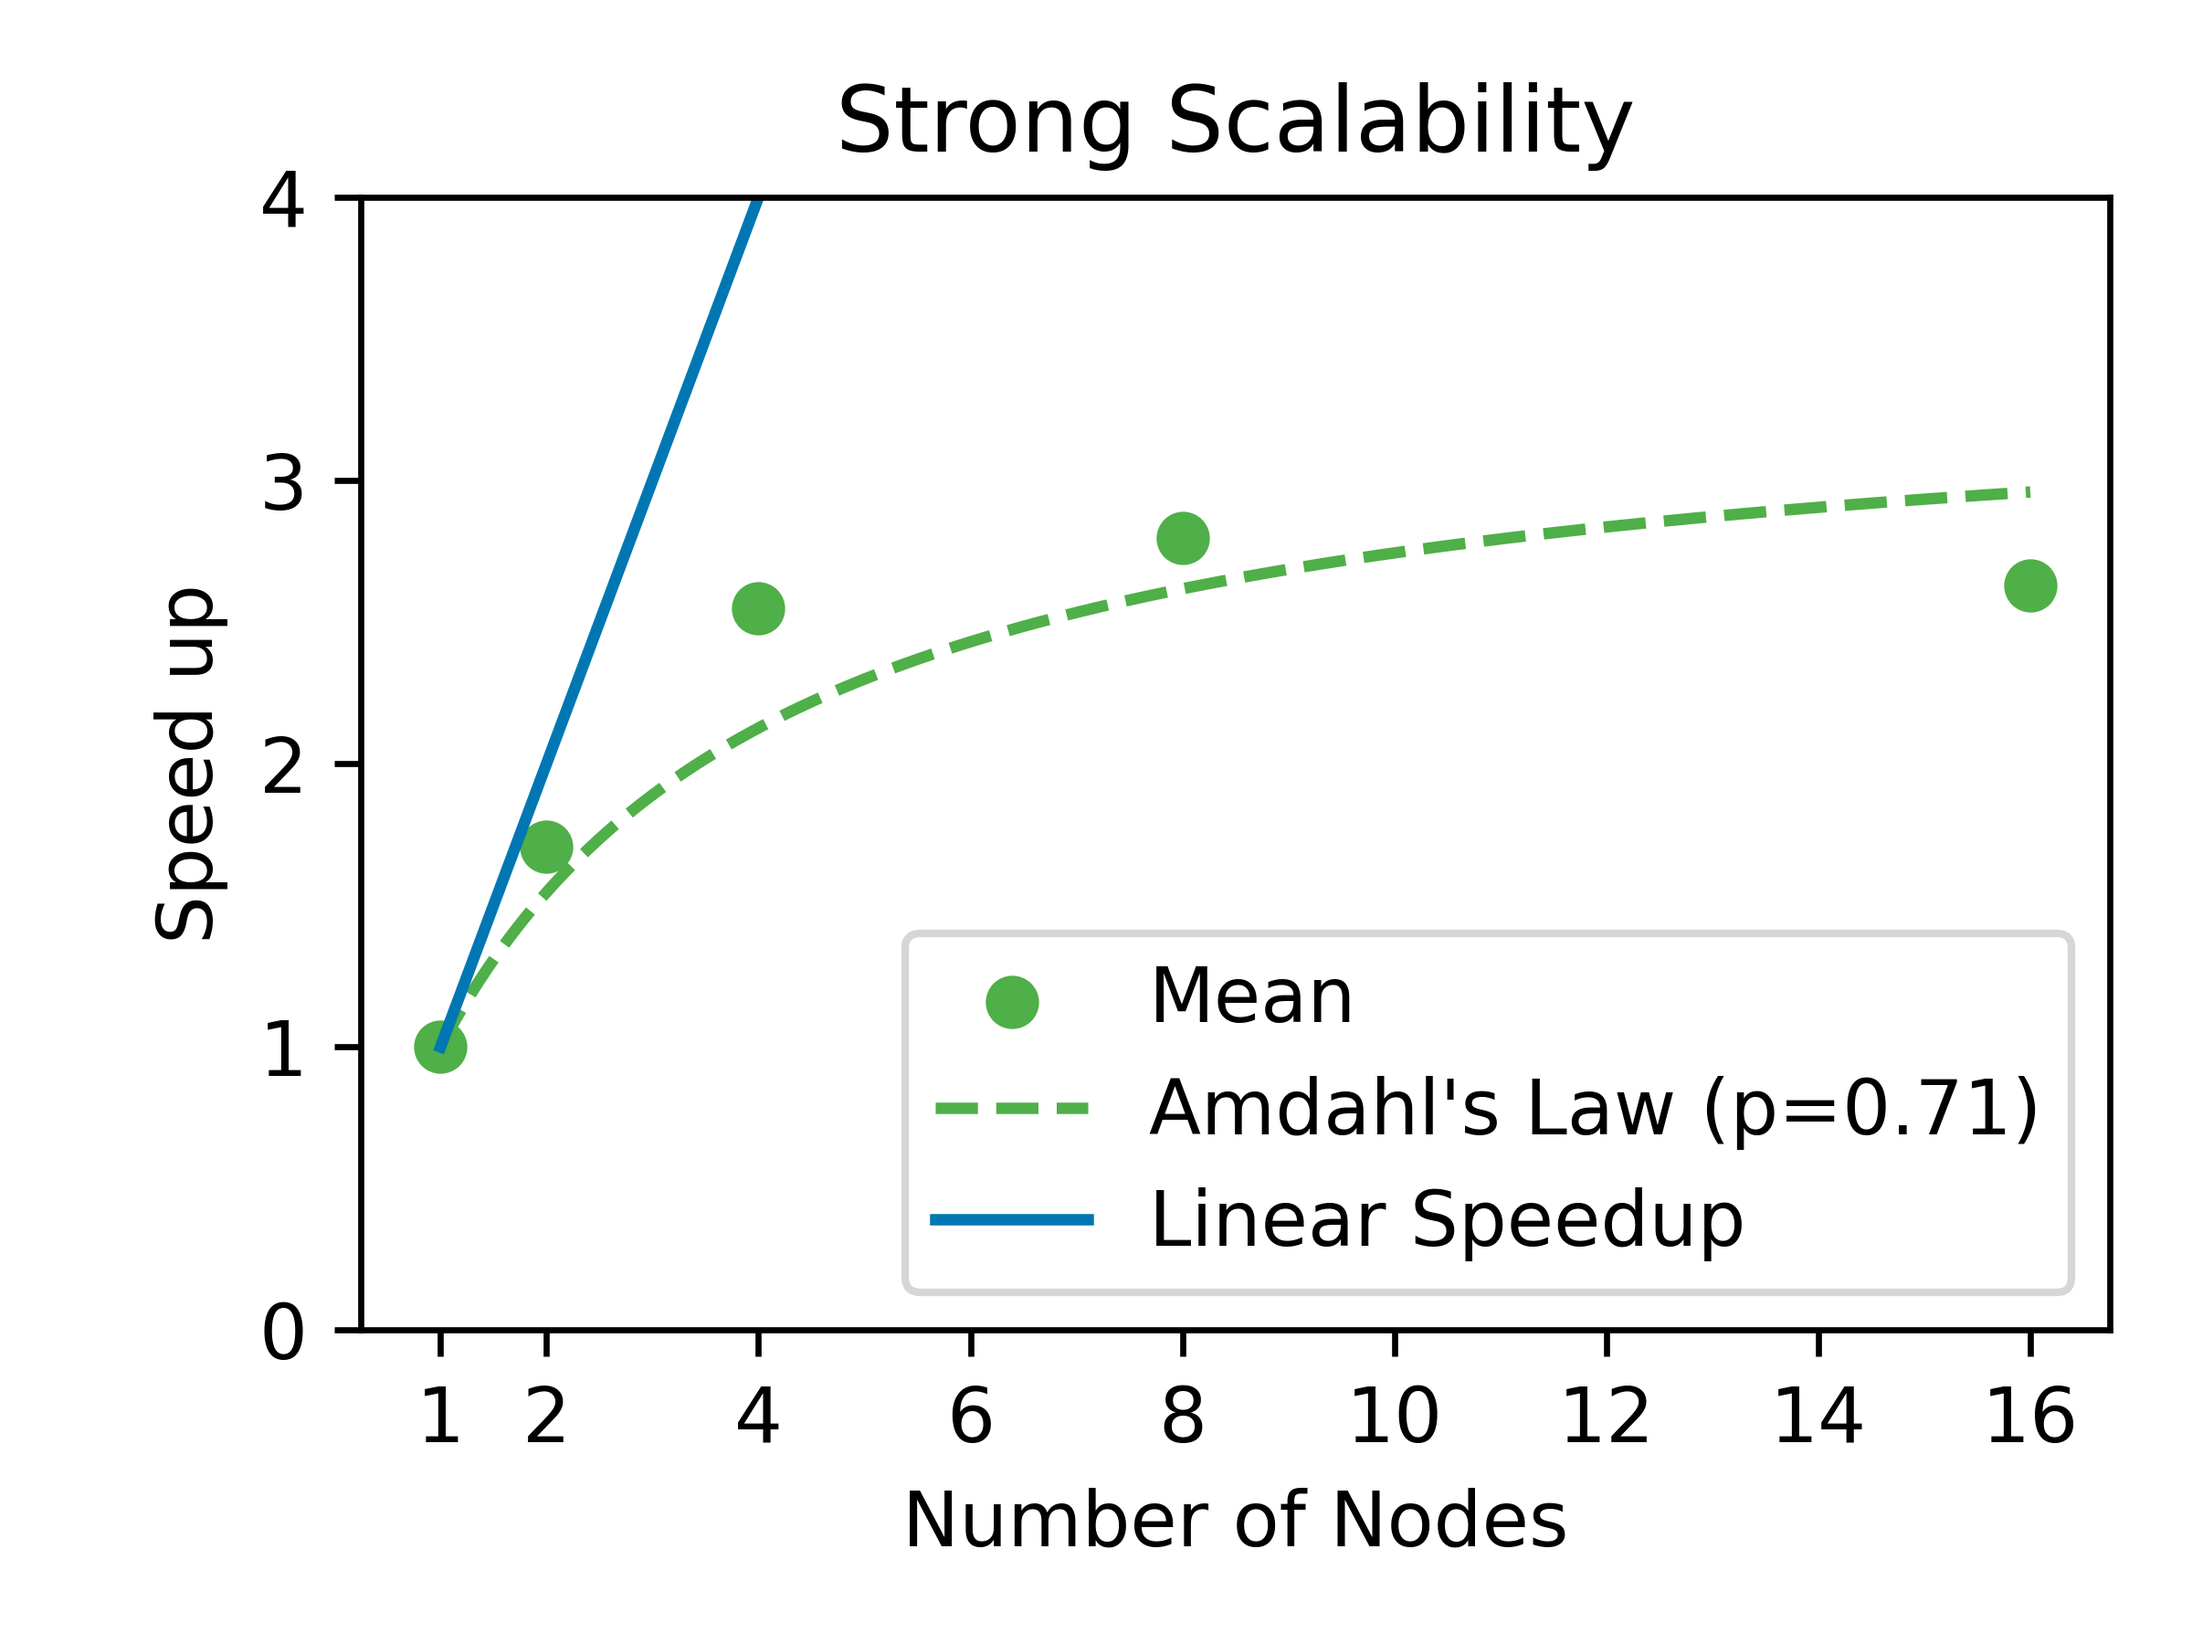
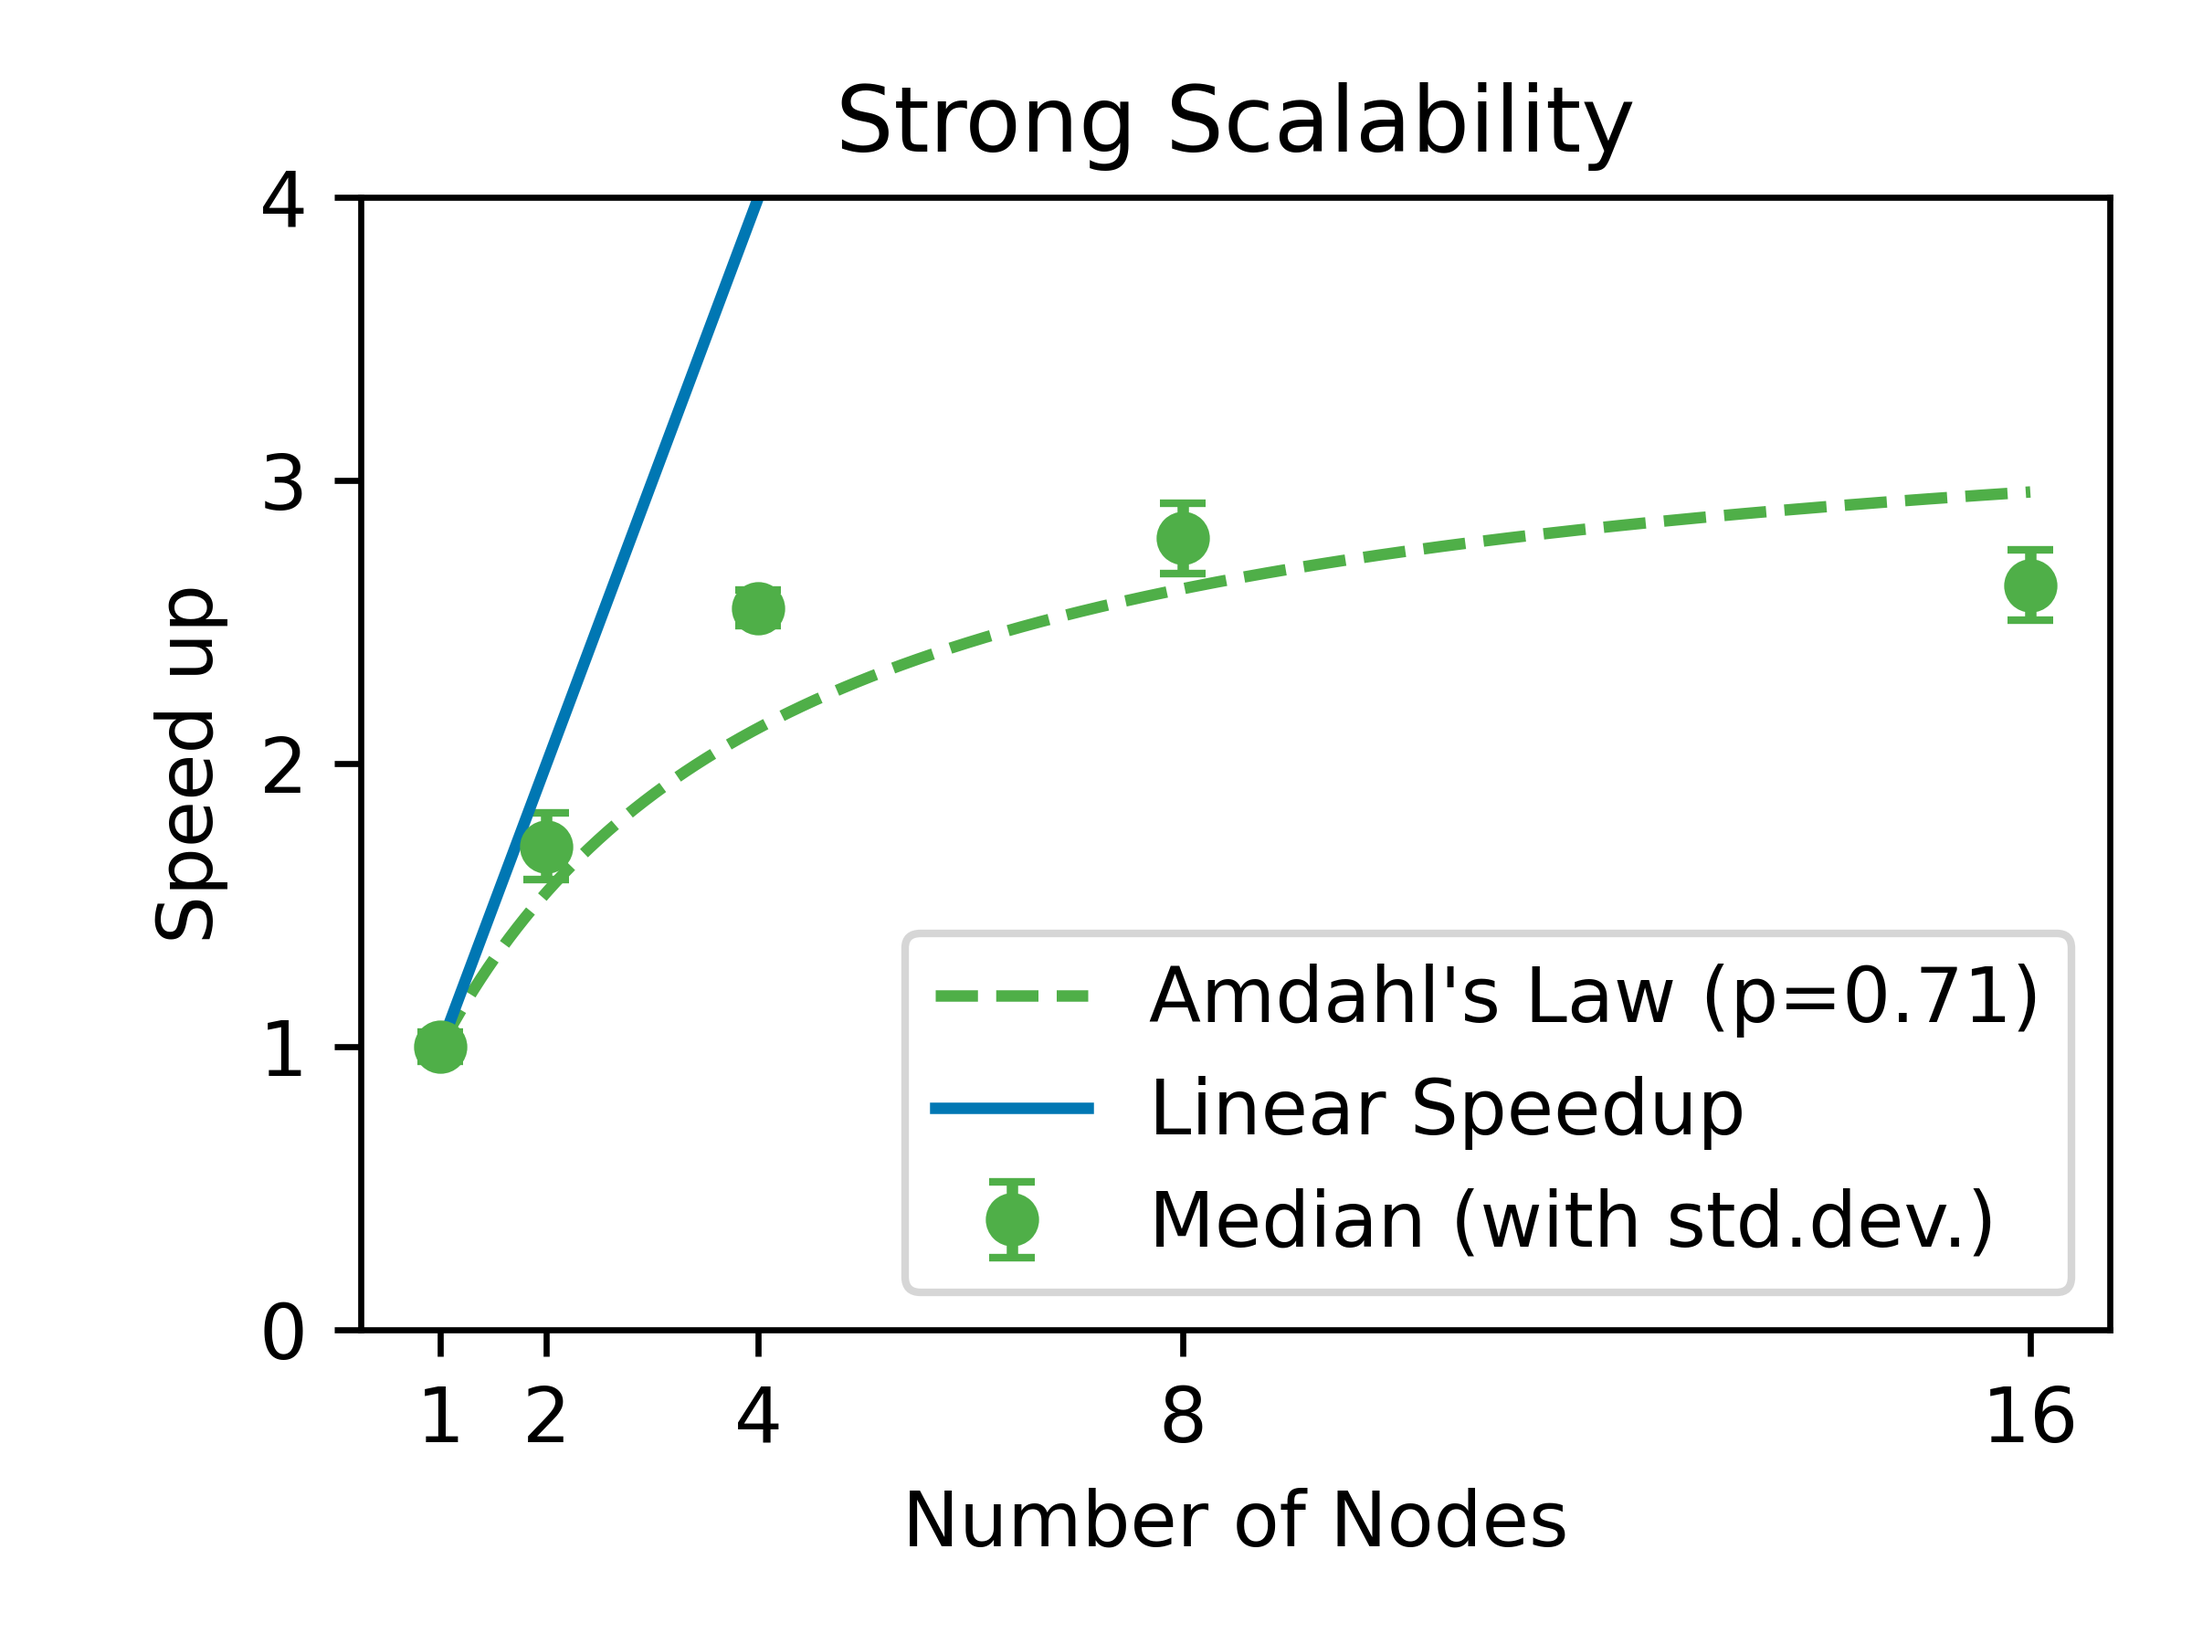
Add std.dev. and adjust xticks of strong scalability Amdahl plot

diff --git a/plotting/plot_strong_scalability_amdahls.py b/plotting/plot_strong_scalability_amdahls.py
@@ -50,6 +50,8 @@ for i in range(len(n_means) - 1):
 n_means_normalized[0] = 1 # [0] so 1 processor (the "sequential") is used as a speed up of 1 baseline.
 
 n_normalized = n_means[0] / n # All the individual measurements (not the means) are converted to a speed up here.
+# Standard deviation of the speed up measurements.
+n_std = [np.std(arr) for arr in n_normalized]
 
 
 ### CREATE PLOT ###
@@ -69,7 +71,7 @@ plt.figure(figsize=(4, 3), dpi=600)
 popt, pcov = scipy.optimize.curve_fit(amdahl, s, n_means_normalized)
 print("popt", popt, "pcov", pcov)
 
-plt.scatter(s, n_means_normalized, color=colors[1], label="Mean")
+plt.errorbar(s, n_means_normalized, yerr=n_std, color=colors[1], fmt="o", label="Median (with std.dev.)", capsize=3) # Or fmt="_" for a standard error bar.
 n1 = np.linspace(s[0], s[-1], 100000)
 plt.plot(n1, amdahl(n1, *popt), color=colors[1], ls="--", label=f"Amdahl's Law (p={round(popt[0], 2)})")
 
@@ -79,7 +81,7 @@ plt.legend()
 plt.title("Strong Scalability")
 plt.xlabel("Number of Nodes")
 plt.ylabel("Speed up")
-plt.xticks([1,2,4,6,8,10,12,14,16])
+plt.xticks([2 ** i for i in range(5)])
 plt.ylim(0, 4)
 
 plt.tight_layout()
